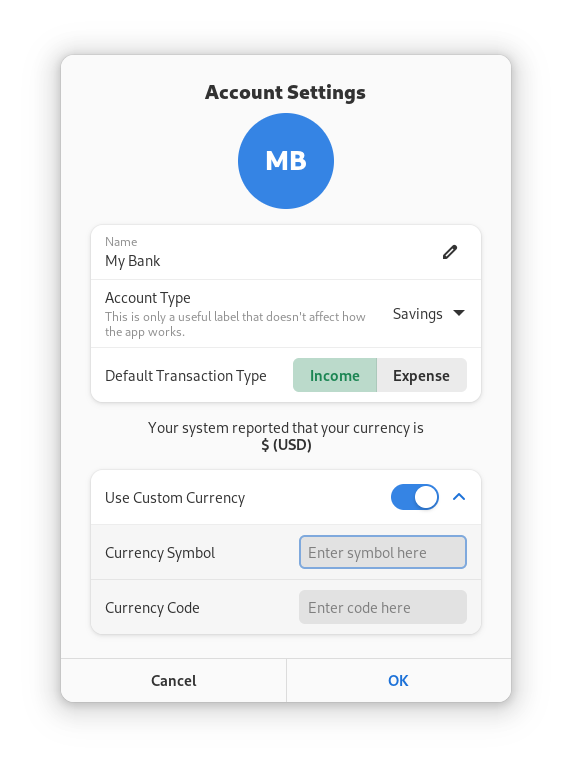
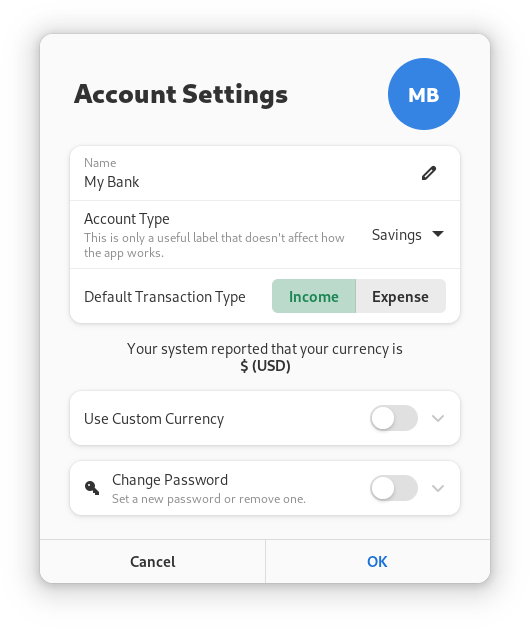
Update screenshots

diff --git a/README.md b/README.md
@@ -35,7 +35,8 @@ See [CONTRIBUTING.md](CONTRIBUTING.md) for details on how can you help the proje
 
  ![GNOMELight](NickvisionMoney.GNOME/Screenshots/OpenAccount.png)
  ![GNOMEDark](NickvisionMoney.GNOME/Screenshots/OpenAccountDark.png)
- <p align='center'><img src='NickvisionMoney.GNOME/Screenshots/Transaction.png' alt='GNOMETransaction' width='30%'><img   src='NickvisionMoney.GNOME/Screenshots/AccountSettings.png' alt='GNOMEAccountSettings' width='30%'><img src='NickvisionMoney.GNOME/Screenshots/CompactMode.png'  alt='GNOMECompactMode' width='30%'></p>
+ <p align='center'><img src='NickvisionMoney.GNOME/Screenshots/Transaction.png' alt='GNOMETransaction' width='50%'><img src='NickvisionMoney.GNOME/Screenshots/CompactMode.png'  alt='GNOMECompactMode' width='50%'></p>
+ <p align='center'><img src='NickvisionMoney.GNOME/Screenshots/AccountSettings.png' alt='GNOMEAccountSettings' width='50%'><img src='NickvisionMoney.GNOME/Screenshots/PasswordDialog.png' alt='GNOMEPasswordDialog' width='50%'></p>
 </details>
 
 <details>
